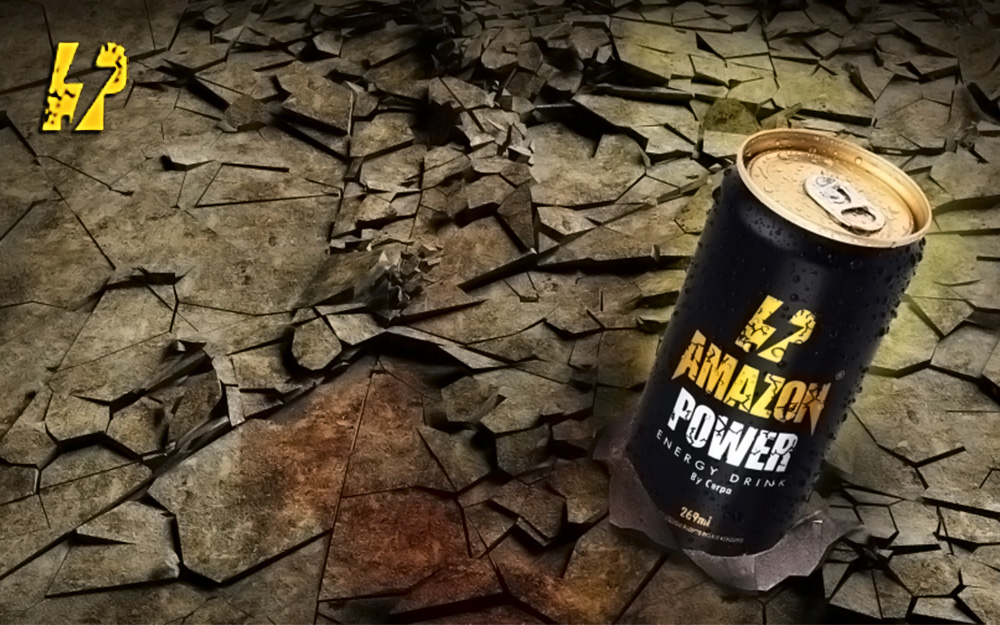
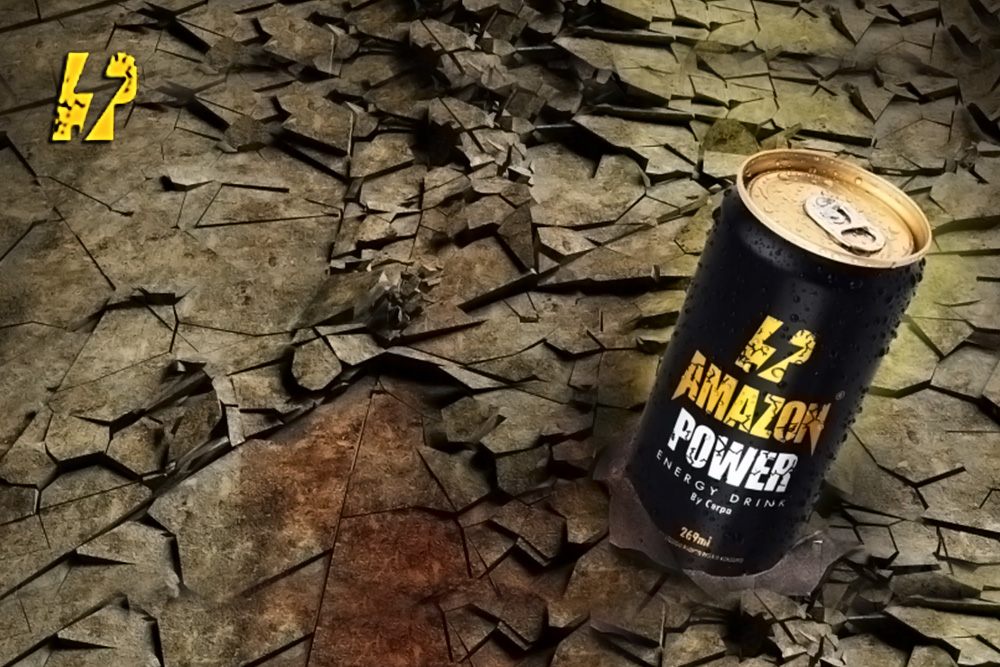
added luxo de seria and updated the energy sponsor in the sponsor section

diff --git a/css/style.css b/css/style.css
@@ -537,12 +537,15 @@ img[src*="bela_rosa_logo"]{width:44%;height:44%;margin:-16px 22px 0 22px;left:3.
 .fa.fa-quote-right{left:123.4%;top:14px;}
 .fa.fa-pull-left:hover{color:#fff;}
 .fa-border{padding:0;border:0;}
-.item.sponser_margen{max-width:1071px;background:#fff url(../img/sponsor/energy/amazon_logo_with_name.png)no-repeat;background-size:contain;background-position-x:-4px;/*background-position-y:-426px;*/padding:4px;border-radius:3px;margin:10px auto;margin-top:167px;box-shadow:0 0 15px 0 rgba(0,0,0,0.2);}
+.item.sponser_margen{max-width:1071px;background:#fff;background-size:contain;background-position-x:-4px;/*background-position-y:-426px;*/padding:4px;border-radius:3px;margin:10px auto;margin-top:167px;box-shadow:0 0 15px 0 rgba(0,0,0,0.2);}
 .item.sponser_margen_one{background:#fff url(../img/sponsor/kpaloa/kpaloa_xan_background_test.jpg)no-repeat;background-position-x:-4px;background-position-y:-3px;}
 .item.sponser_margen_two{background:#fff url(../img/sponsor/bela_rosa/background_bela_rosa.jpg)no-repeat;background-size:cover;background-position-x:-538px;background-position-y:-290px;}
 .item.sponser_margen_three{background:#fff url(../img/sponsor/craud/sundown_test.png)no-repeat;background-size:cover;background-position-x:-378px;background-position-y:-211px;}
-.item.sponser_margen_four{max-width:1071px;background:#fff url(../img/sponsor/energy/amazon_logo_with_name.png)no-repeat;background-size:contain;background-position-x:0px;/*background-position-y:-426px;*/padding:4px;border-radius:3px;margin:10px auto;margin-top:167px;box-shadow:0 0 15px 0 rgba(0,0,0,0.2);}
-.item.sponsor_image_five{background:#fff url(../img/sponsor/raizes/background_raizes.jpg)no-repeat;background-size:cover;background-position-x:-228px;background-position-y:-124px;}
+.item.sponser_margen_four{}
+.item.sponser_margen_five{max-width:1071px;background:#fff url(../img/sponsor/energy/amazon_logo_with_name.png)no-repeat;background-size:contain;background-position-x:-16px;/*background-position-y:-426px;*/padding:4px;border-radius:3px;margin:10px auto;margin-top:167px;box-shadow:0 0 15px 0 rgba(0,0,0,0.2);}
+.item.sponser_margen.sponser_margen_six{background:#fff url(../img/sponsor/luxo_de_sereia/logo_luxo_sereia_plus_background_test.jpg)no-repeat;background-size:contain;background-position-x:-4px;}
+
+
 .sponsor_image_three{margin-top:0px;}
 .bela_rosa, .stdp{height:355px!important;}
 #carousel-example-generic2{position:relative;top:-12px;}

diff --git a/index.html b/index.html
@@ -825,7 +825,7 @@ C315.888,438.556,462,417.889,462,315.521z"></path>
 <img class='sponser_image sponsor_two' src="img/sponsor/360/360_background.png" width='50%' height="50%" alt="">
 <img class='test' src="img/sponsor/360/white.png" width='50%' height="50%" alt="">
 </div>
-<div class="item sponser_margen sponser_margen_four clearfix">
+<div class="item sponser_margen sponser_margen_five clearfix">
 <div class='sponsor_background'>      
 <div class="carousel-caption">
 <h6 class="stdp_link">Saiba Mais<a class='link' href="http://bit.ly/1LSeMnk" data-toggle="tooltip" data-placement="right" title="Click Me" target="_blank"><i class="fa fa-external-link"></i></a></h6>
@@ -834,6 +834,16 @@ C315.888,438.556,462,417.889,462,315.521z"></path>
 </div> 
 <img class='sponser_image sponsor_two' src="img/sponsor/energy/background_amazon_energy_power_two.jpg" width='50%' height="50%" alt="">
 </div>
+<div class="item sponser_margen sponser_margen_six clearfix">
+<div class='sponsor_background'>      
+<div class="carousel-caption">
+<h6 class="stdp_link">Saiba Mais<a class='link' href="http://bit.ly/1kcPJPx" data-toggle="tooltip" data-placement="right" title="Click Me" target="_blank"><i class="fa fa-external-link"></i></a></h6>
+<a href="http://bit.ly/1LzK6oD" target="_blank"><i class="desktop_social_icons studio_social_seel_face_icon fa fa-instagram"></i>
+<a href="http://on.fb.me/1QDpo7A" target="_blank"><i class="desktop_social_icons studio_social_seel_face_icon fa fa-facebook"></i></a>
+</div>
+</div> 
+<img class='sponser_image sponsor_two' src="img/sponsor/luxo_de_sereia/background_luxo_de_sereia.jpg" width='50%' height="50%" alt="">
+</div> 
 </div>
 <a class="sponsor_carousel sponsor_carousel_two carousel-control left" href=#carousel-example-generic2 data-slide=prev></a>
 <a class="sponsor_carousel sponsor_carousel_one carousel-control right" href=#carousel-example-generic2 data-slide=next></a>
